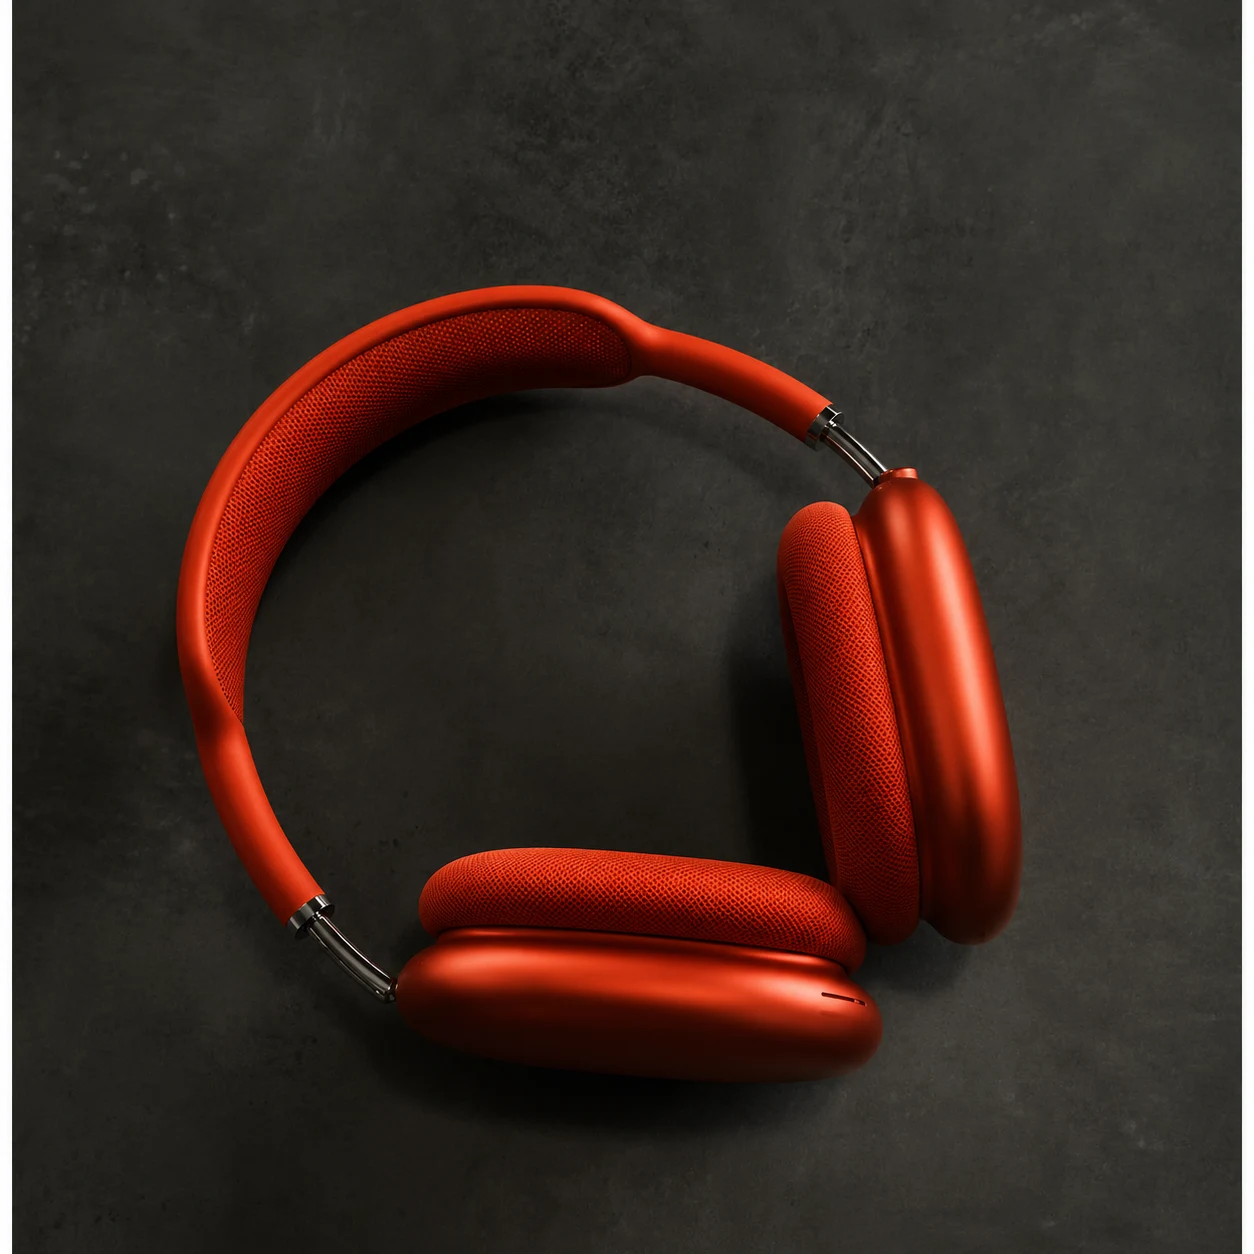
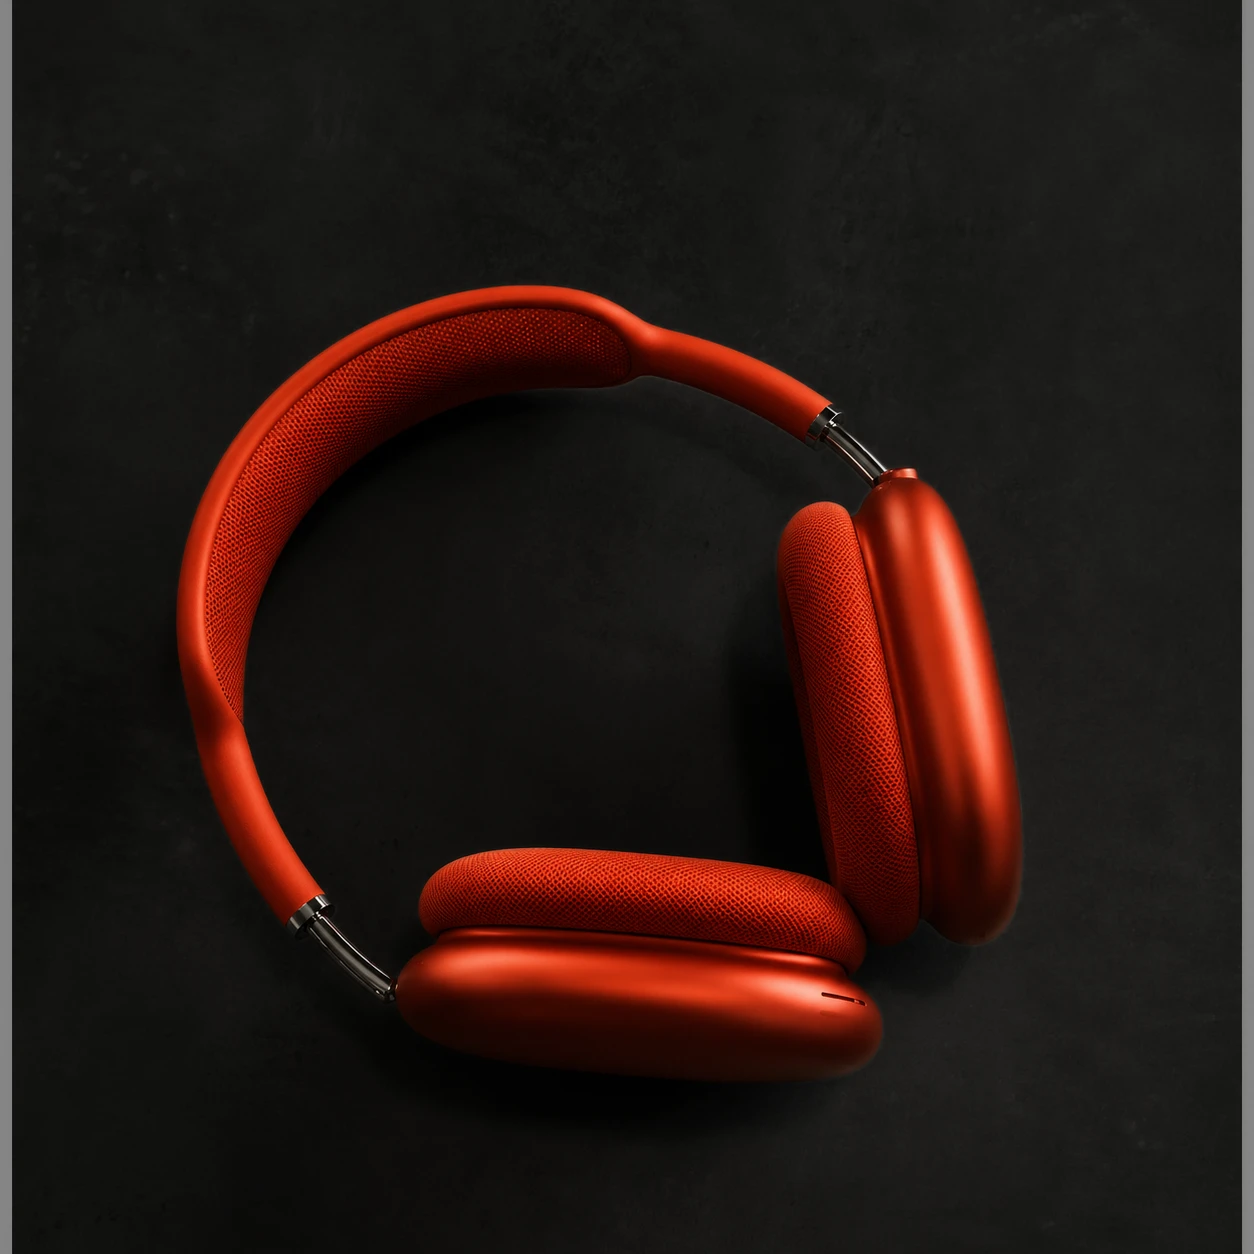
Last section: real headphones photo, larger, background darkened to the card so there is no spotlight
Claude-Session: https://claude.ai/code/session_01UrdrJnYWieJvLx2ESNarDp

diff --git a/src/styles/emboss.css b/src/styles/emboss.css
@@ -373,80 +373,14 @@
   }
 }
 
-/* ============================================================
-   Magazine touches (Nov 8, from the Sound Issue carousel), last section first:
-   issue-style kicker, a drop cap, and the headphones as a real instant print
-   taped to the black card with a handwritten caption.
-============================================================= */
-.sia.sia-final--split .sia-kicker::after {
-  content: "No. 06";
-  margin-left: auto;
-  padding-left: 18px;
-  font: inherit;
-  letter-spacing: inherit;
-  opacity: 0.8;
-}
-.sia.sia-final--split .sia-display + .sia-final__line::first-letter {
-  float: left;
-  font-family: var(--sia-display);
-  font-weight: 800;
-  font-size: 3.6em;
-  line-height: 0.82;
-  margin: 0.08em 0.12em 0 -0.03em;
-  color: var(--sia-red);
-}
-/* the print */
-.sia.sia-final--split .sia-final__photo {
-  translate: none;
-  scale: none;
-  rotate: 3.5deg;
-  width: min(440px, 82%);
-  aspect-ratio: auto;
-  margin-left: auto;
-  margin-right: 6%;
-  padding: 16px 16px 74px;
-  background: #ebe5da;
-  box-shadow: 0 1px 0 rgba(255, 255, 255, 0.4) inset, 0 22px 40px rgba(0, 0, 0, 0.6), 0 4px 10px rgba(0, 0, 0, 0.45);
-}
+/* Headphones (Nov 8, chosen): the real photo, background darkened to the card's tone in the
+   image itself so there is no lighter "spotlight" patch; larger, edges feathered into the card. */
+.sia.sia-final--split .sia-final__photo { translate: 6% 0; scale: 1.25; }
 .sia.sia-final--split .sia-final__photo img {
-  aspect-ratio: 1 / 1;
-  height: auto;
-  -webkit-mask-image: none;
-  mask-image: none;
-  filter: contrast(1.04) saturate(0.9) brightness(0.95);
-  transform: none;
-}
-.sia.sia-final--split .sia-final__photo::before {
-  content: "";
-  position: absolute;
-  top: -16px;
-  left: 50%;
-  width: 150px;
-  height: 42px;
-  translate: -50% 0;
-  rotate: -5deg;
-  background: url("/images/tape.webp") center / 100% 100% no-repeat;
-  opacity: 0.9;
-  z-index: 2;
-}
-.sia.sia-final--split .sia-final__photo::after {
-  content: "your sound, not theirs";
-  position: absolute;
-  left: 0;
-  right: 0;
-  bottom: 16px;
-  text-align: center;
-  font-family: var(--sia-lipstick);
-  font-size: 32px;
-  line-height: 1;
-  color: #3f1614;
-  rotate: -2deg;
+  -webkit-mask-image: radial-gradient(ellipse 50% 50% at 50% 50%, #000 62%, transparent 100%);
+  mask-image: radial-gradient(ellipse 50% 50% at 50% 50%, #000 62%, transparent 100%);
+  filter: saturate(0.95);
 }
 @media (max-width: 860px) {
-  .sia.sia-final--split .sia-final__photo { width: 78%; margin: 10px auto 26px; padding: 12px 12px 58px; }
-  .sia.sia-final--split .sia-final__photo::after { font-size: 26px; bottom: 14px; }
-  .sia.sia-final--split .sia-final__photo img {
-    -webkit-mask-image: none;
-    mask-image: none;
-  }
+  .sia.sia-final--split .sia-final__photo { translate: 0 0; scale: 1.1; }
 }
